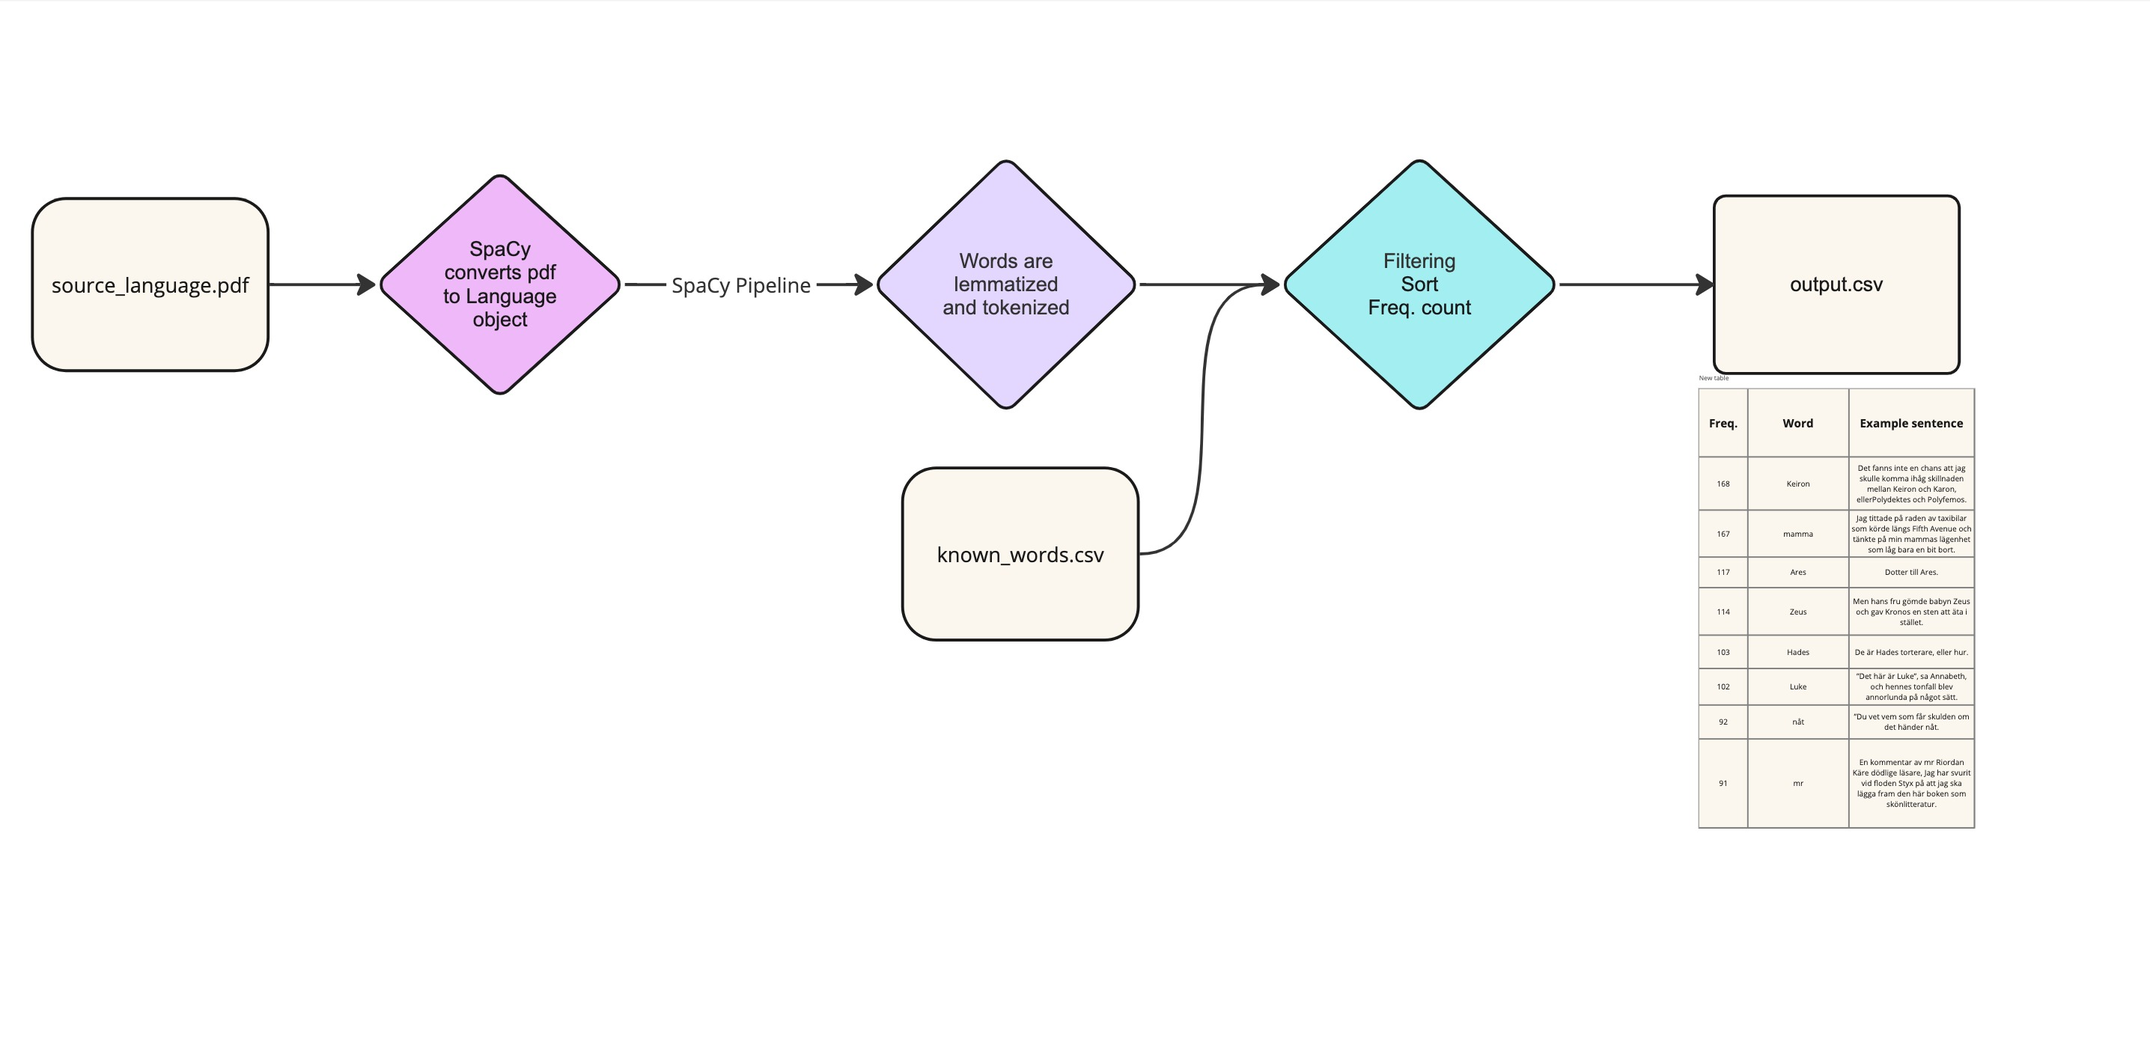
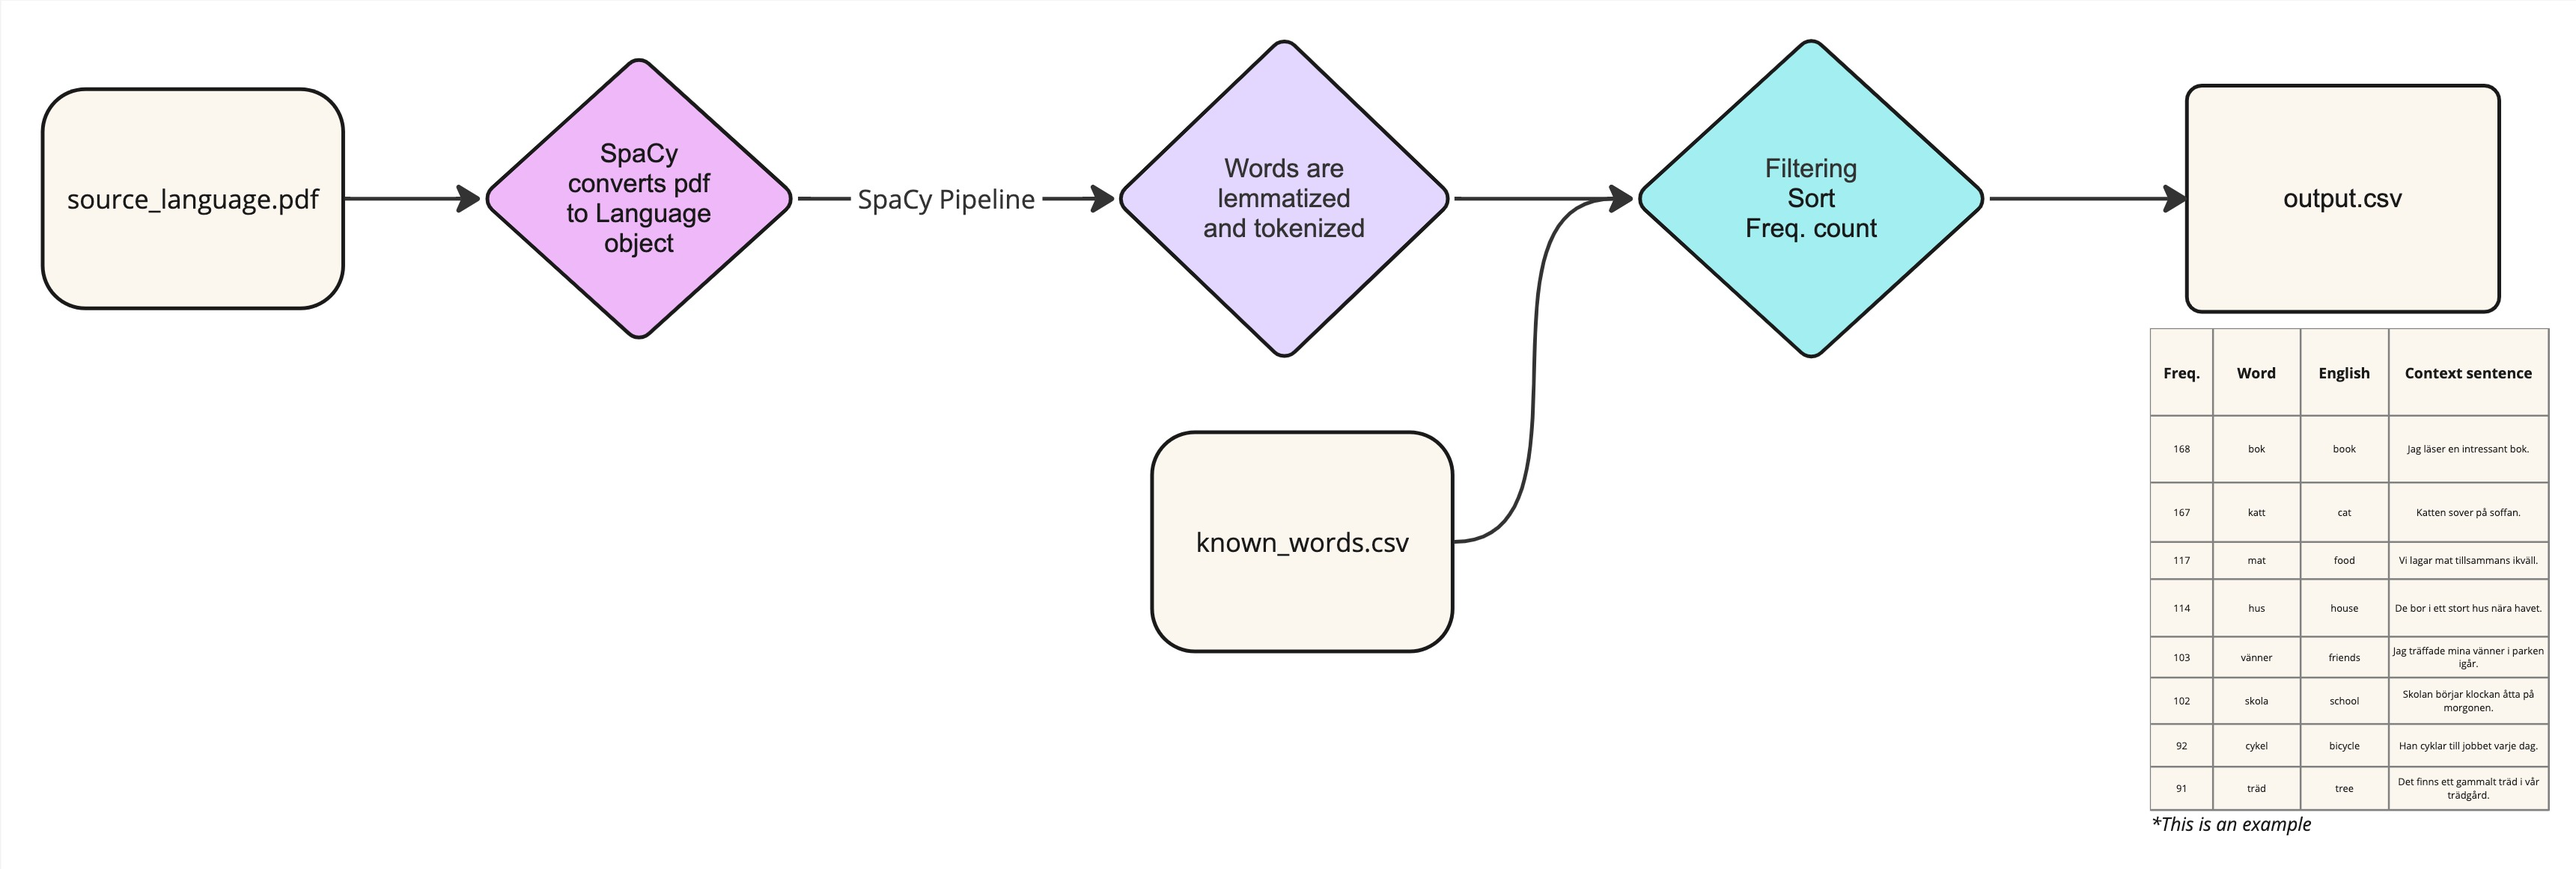
Adjusted diagrams, modified text

diff --git a/index.html b/index.html
@@ -31,23 +31,23 @@
             <br>
             <div class="portfolio-item theme1">
                 <div class="portfolio-item img">
-                    <img src="./assets//images/FTA/Diagrams and such - Frame 1.jpg" alt="Photo 3">
+                    <img src="./assets//images/FTA/FTA_diag.jpg" alt="Photo 3">
                 </div>
                 <div class="portfolio-info">
                     <h2>Foreign Language Text Analyzer</h2>
-                    <p><a href="https://github.com/username/project1" target="_blank"><i class="fab fa-github github-icon"></i> GitHub</a></p>
+                    <p><a href="https://github.com/TheReverseSide/Language-Text-Frequency" target="_blank"><i class="fab fa-github github-icon"></i> GitHub</a></p>
                     <br>
-                    <p>After becoming interested in ML after my <a href="https://aaltodoc.aalto.fi/items/67c47697-a272-4d8f-b82c-ca297eea91f1" target="_blank">Masters Thesis</a>, <span class="highlight-project1">I decided to continue exploring the potential of NLP.</span></p>
+                    <p>After becoming interested in ML during my <a href="https://aaltodoc.aalto.fi/items/67c47697-a272-4d8f-b82c-ca297eea91f1" target="_blank">Masters Thesis</a>, <span class="highlight-project1">I decided to continue exploring the potential of NLP.</span></p>
                     <br>
                     <p>Since I love learning languages, I thought I would create a tool to help streamline one of the most time consuming parts of learning a langauge: processing new vocabulary.</p>
                     <br>
-                    <p><span class="highlight-project1">Objective:</span> To take a foreign-language PDF and create a list of all words, lemmitize them (put them in their base-form), then remove any words I already know. From there, the program creates a frequency list of the words, accompanied with an example sentence of that word. A Google Translate plugin is then used to generate translations for each word. From there, the CSV file can be easily imported into [Anki flashcards](https://apps.ankiweb.net/) for memorization.</p>
+                    <p><span class="highlight-project1">Objective:</span> To take a foreign-language PDF and create a list of all words, lemmitize them (put them in their base-form), then remove any words I already know. From there, the program creates a frequency list of the words, accompanied with an example sentence of that word. A Google Translate plugin is then used to generate translations for each word. From there, the CSV file can be easily imported into <a href="https://apps.ankiweb.net/" target="_blank">Anki flashcards</a> for memorization.</p>
                 </div>
                 <div class="photo-grid-container">
                     <div class="photo-grid">
                         <div class="photo-item">
                             <img src="./assets/images/FTA/FTA_out.jpg" alt="Photo 1">
-                            <p class="caption">Output of the Foreign Language Text Analyzer</p>
+                            <p class="caption">Output CSV example of the program</p>
                         </div>
                     </div>
                 </div>
@@ -66,7 +66,7 @@
                     <br>
                     <p>Feel & Play is a musical app that helps you practice emotional skills. An inspiringly participatory app adventure combines musicality, visuality and playfulness with multi-user collaboration.</p>
                     <br>
-                    <p>As the <span class="highlight-project2">lead developer of this Unity project</span>, I guided a team of developers to improve the quality and functionality of the existing codebase.</p>
+                    <p>As the <span class="highlight-project2">lead developer of this Unity project</span>, I guided a team of developers to improve the quality and functionality of the existing codebase as well as add new features, such as painting.</p>
                     <br>
                     <p>Feel and Play was funded by Finland's ministry of education, in an effort to promote their goals of improved emotional intelligence in children.</p>
                 </div>
@@ -77,16 +77,15 @@
                     <img src="./assets/images/Thesis/thesis_diag2.jpg" alt="Photo 3">
                 </div>
                 <div class="portfolio-info">
-                    <h2>Masters Thesis Project</h2>
+                    <h2>Masters Thesis Project, Game Design and Production, Aalto University</h2>
                     <p><a href="https://aaltodoc.aalto.fi/items/67c47697-a272-4d8f-b82c-ca297eea91f1" target="_blank"><i class="fa fa-file"></i> Aalto docs</a></p>
                     <br>
-                    <p>Masters Thesis project for Game Design and Production program at Aalto University. <br><br> 
-                        Remote playtesting usually requires the manual review of tens of hours of footage, and while this system reduces the number of valuable insights collected from each playtest video, it <span class="highlight-project3">greatly increases the speed of insight-collection</span>, allowing a larger turnover of user tests. <br><br> 
+                    <p>Remote playtesting usually requires the manual review of tens of hours of footage, leveraging recent advances in AI, this system <span class="highlight-project3">greatly increases the speed of insight-collection</span>, allowing a larger turnover of user tests, at the cost of a slightly reduced number of insights found per playtest. <br><br> 
                         In brief, transcripts were generated from the playtest videos, which were then <span class="highlight-project3">analyzed by a sentence classifier trained with manually labelled data</span> and the classified results (in the form of video timestamps) are then passed to the user researcher, sorted by sentiment and intensity.</p>
                 </div>
                 <div class="photo-grid">
                     <div class="photo-item">
-                        <img src="./assets/images/Thesis/thesis_diag.jpg" alt="Photo 1">
+                        <img src="./assets/images/Thesis/thesis_diag.png" alt="Photo 1">
                         <p class="caption">The development process of the automation system</p>
                     </div>
                     <div class="photo-item">
@@ -101,24 +100,21 @@
                     <img src="./assets/images/AfterDark/Glamour_thumbnail.jpg" alt="Photo 3">
                 </div>
                 <div class="portfolio-info">
-                    <h2>Afterdark VR</h2>
+                    <h2>Afterdark VR Movie</h2>
+                    <p><a href="https://www.afterdark.fi/glamour" target="_blank"><i class="fa fa-external-link-alt"></i> After Dark Helsinki Oy</a></p>
                     <br>
-                    <p>A <span class="highlight-project4">freelancing project created to show a 180 degree VR video</span> for a film festival.</p>
+                    <p>A <span class="highlight-project4">freelancing project created to premiere a 180 degree VR video</span> for a film festival.</p>
                     <br>
-                    <p>This was a solo project, I used <span class="highlight-project4">Unity, C# and Oculus Dev Kit</span> to create the project for Oculus Quests 1 & 2.</p>
-                    <br>
-                    <p>Unfortunately, I cannot share video footage of the app due to NDA.</p>
+                    <p>This was a solo project, I used <span class="highlight-project4">Unity, C#, the AVpro video package and Oculus Dev Kit</span> to create the project for Oculus Quests 1 & 2.</p>
                 </div>
-                <div class="photo-grid">
+                <!-- <div class="photo-grid">
                     <div class="photo-item">
                         <img src="./assets/images/AfterDark/afterdark_main.png" alt="Photo 1">
-                        <!-- <p class="caption">Main scene of Afterdark VR</p> -->
                     </div>
                     <div class="photo-item">
                         <img src="./assets/images/AfterDark/afterdark_scene.png" alt="Photo 2">
-                        <!-- <p class="caption">Another scene from Afterdark VR</p> -->
                     </div>
-                </div>
+                </div> -->
             </div>
 
             <div class="portfolio-item theme5">
@@ -138,10 +134,6 @@
                 </div>
                 <div class="photo-grid-container">
                     <div class="photo-grid">
-                        <div class="photo-item">
-                            <img src="./assets/images/Marmortal/Marmortal1.png" alt="Photo 1">
-                            <!-- <p class="caption">Screenshot from Marmortal</p> -->
-                        </div>
                         <div class="photo-item">
                             <img src="./assets/images/Marmortal/Marmortal2.png" alt="Photo 2">
                             <!-- <p class="caption">Another screenshot from Marmortal</p> -->
@@ -163,7 +155,7 @@
                     <br>
                     <p>A <span class="highlight-project6">PC battle royale</span> where players ride beetles in an arena, using a second-person camera that follows the beetle, not the character. Don't get knocked off!</p>
                     <br>
-                    <p>I wrote <span class="highlight-project6">code for the UI, various gameplay elements,</span> and controller input</p>
+                    <p>I wrote <span class="highlight-project6">code for the UI, various gameplay elements,</span> and controller input.</p>
                     <br>
                     <p>Student project for the <span class="highlight-project6">Game Project course at Aalto University</span>, developed in 3 months using Unity. Team Size: 6</p>
                 </div>
